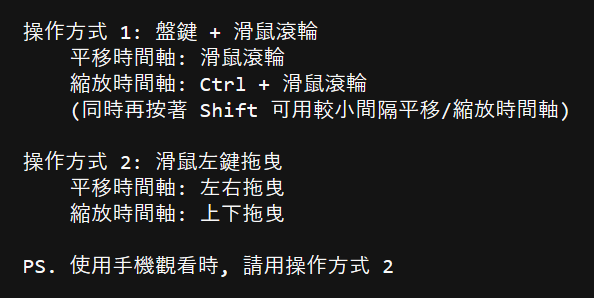
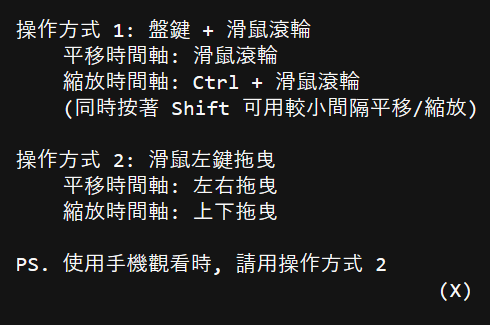
modify help image size

diff --git a/SVG/Timeline/Timeline.html b/SVG/Timeline/Timeline.html
@@ -36,10 +36,8 @@
 		}
 		#help-image img {
 			display: block;
-			max-width: 594px;
-			max-height: 298px;
-			width: auto;
-			height: auto;
+			max-width: 490px;
+			max-height: 325px;
 		}
 	</style>
 </head>
@@ -64,11 +62,17 @@
 	});
 	function showHelp()
 	{
-		let w = $(document).width();
+		let w = window.innerWidth;
 		let h = window.innerHeight;
+		let iw = w * 0.8;
+		let ih = iw * 325 / 490;
+		$('#help-image img').css({
+			width: iw,
+			height: ih
+		});
 		$('#help-image').css({
-			left: w/2 - $('#help-image').width() / 2,
-			top: h / 2 - $('#help-image').height() / 2
+			left: w * 0.1,
+			top:  h/2 - 2 * ih / 3
 		});
 		$('#help-image').show();
 		$('#help-image').click(function(){ $('#help-image').hide(); });
